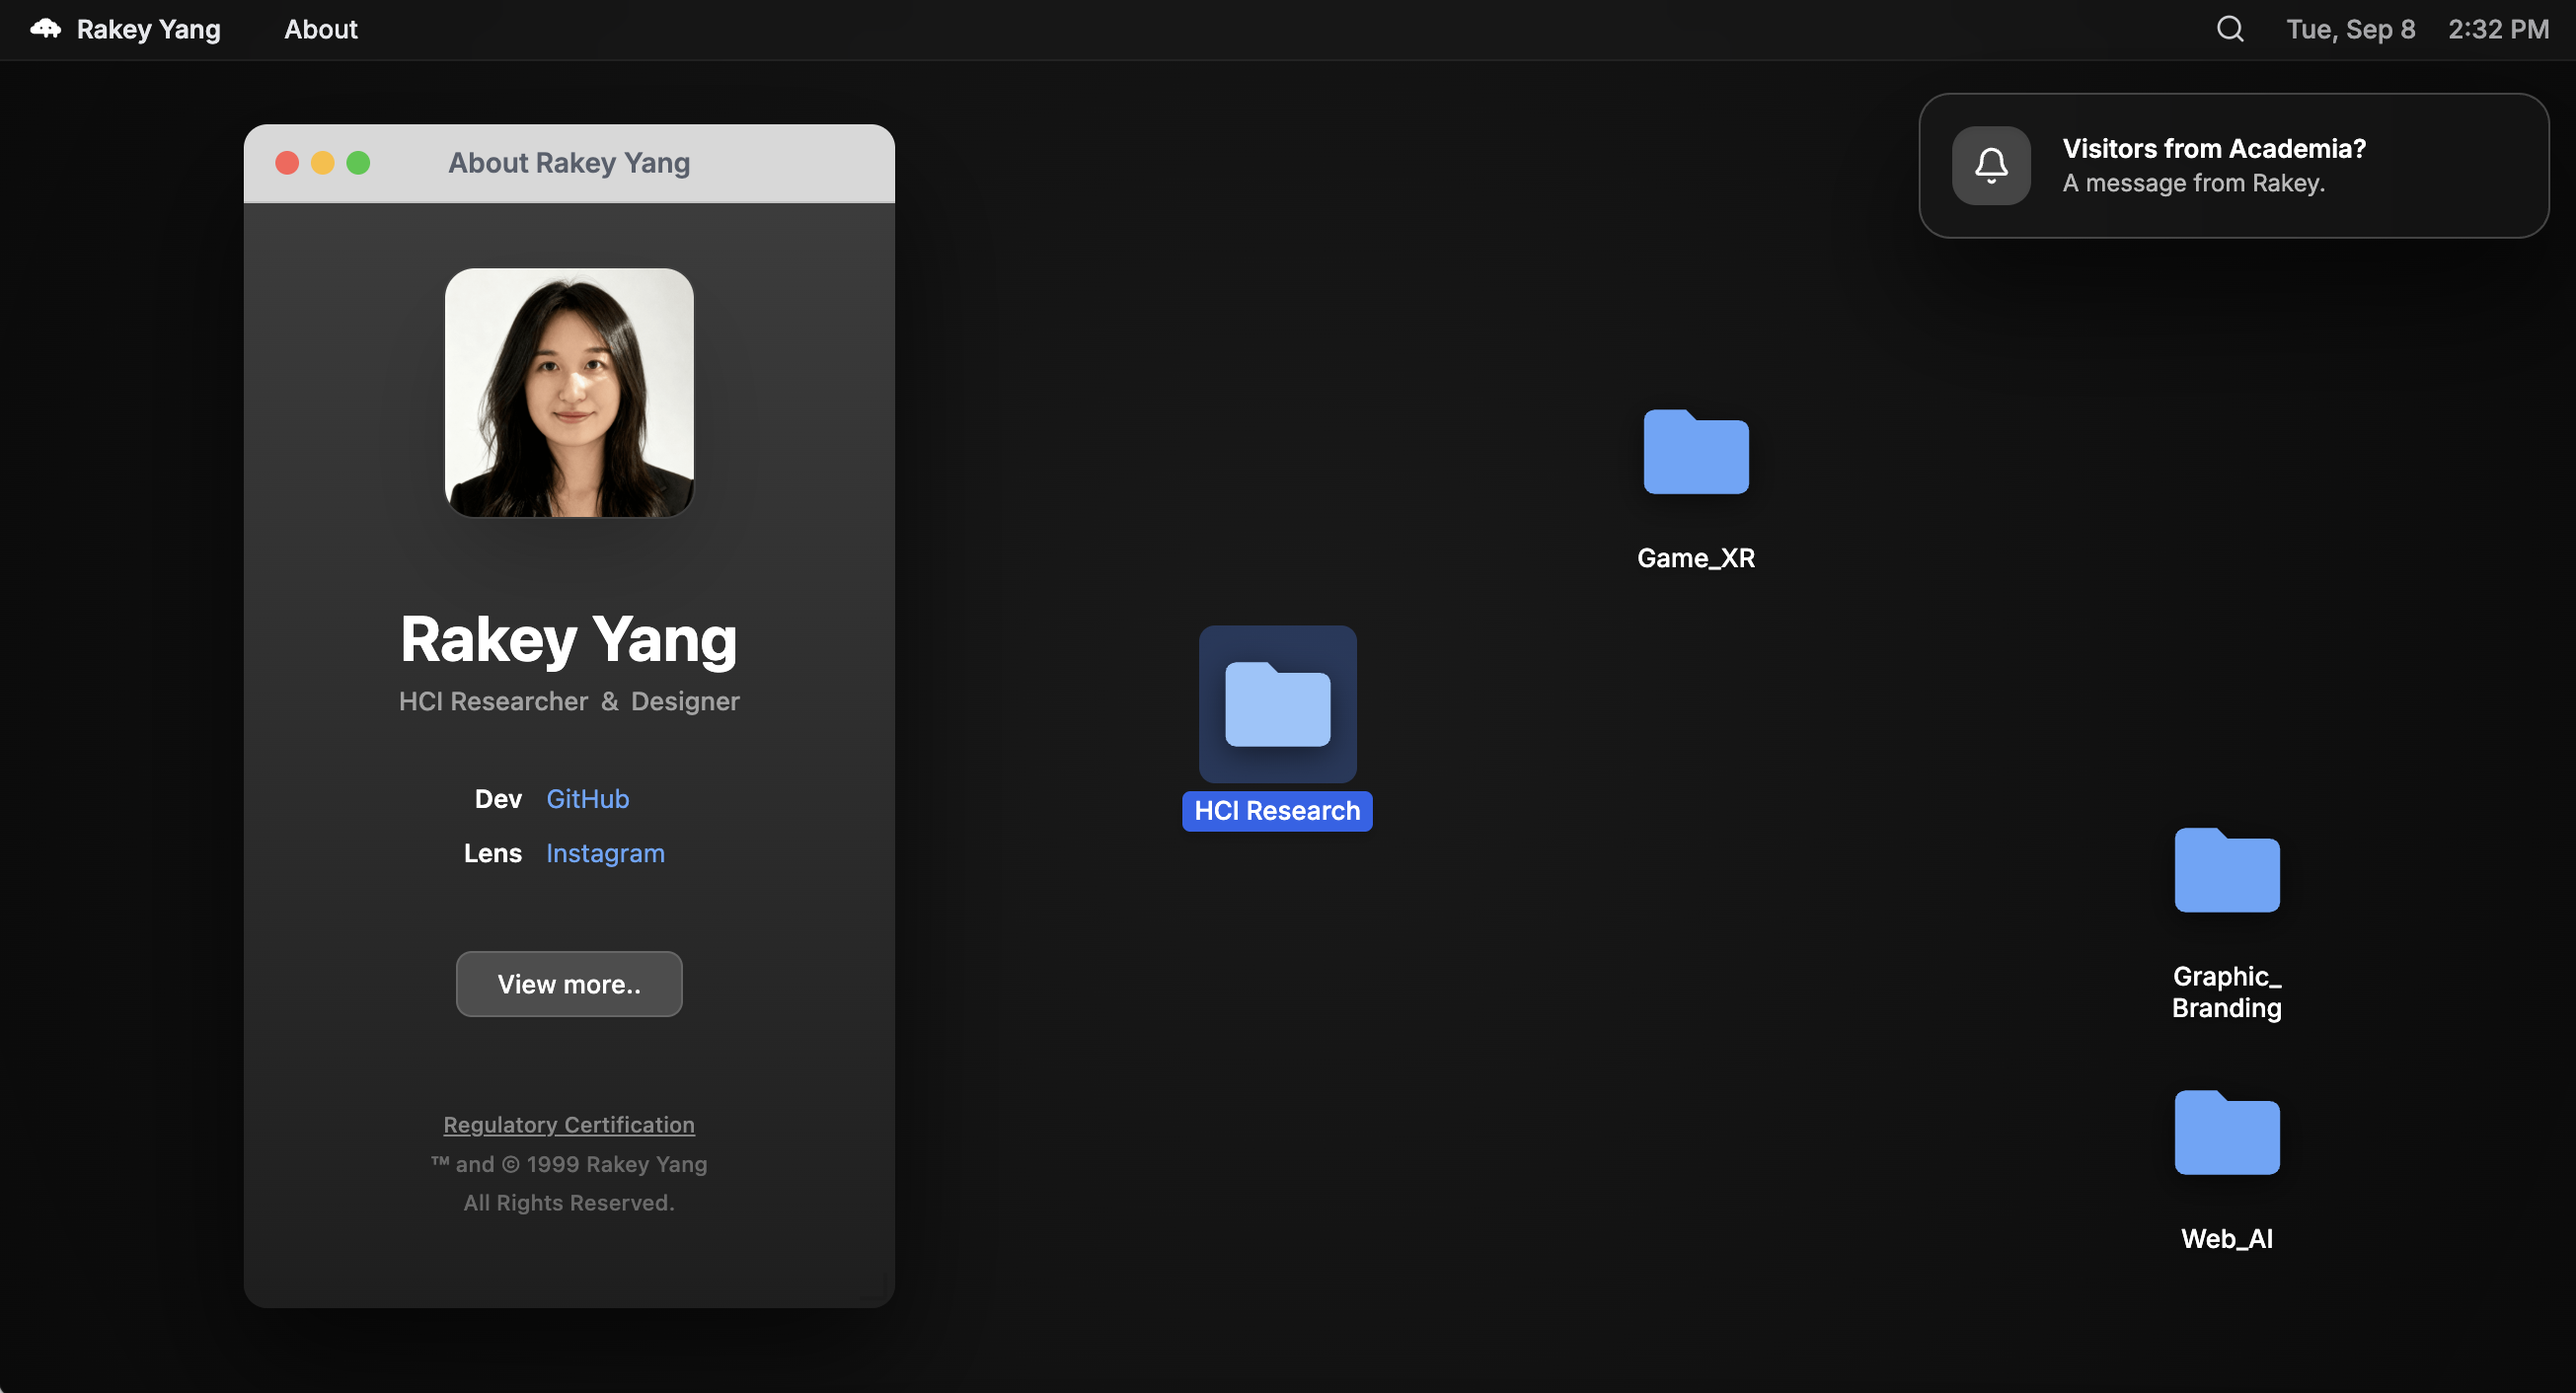
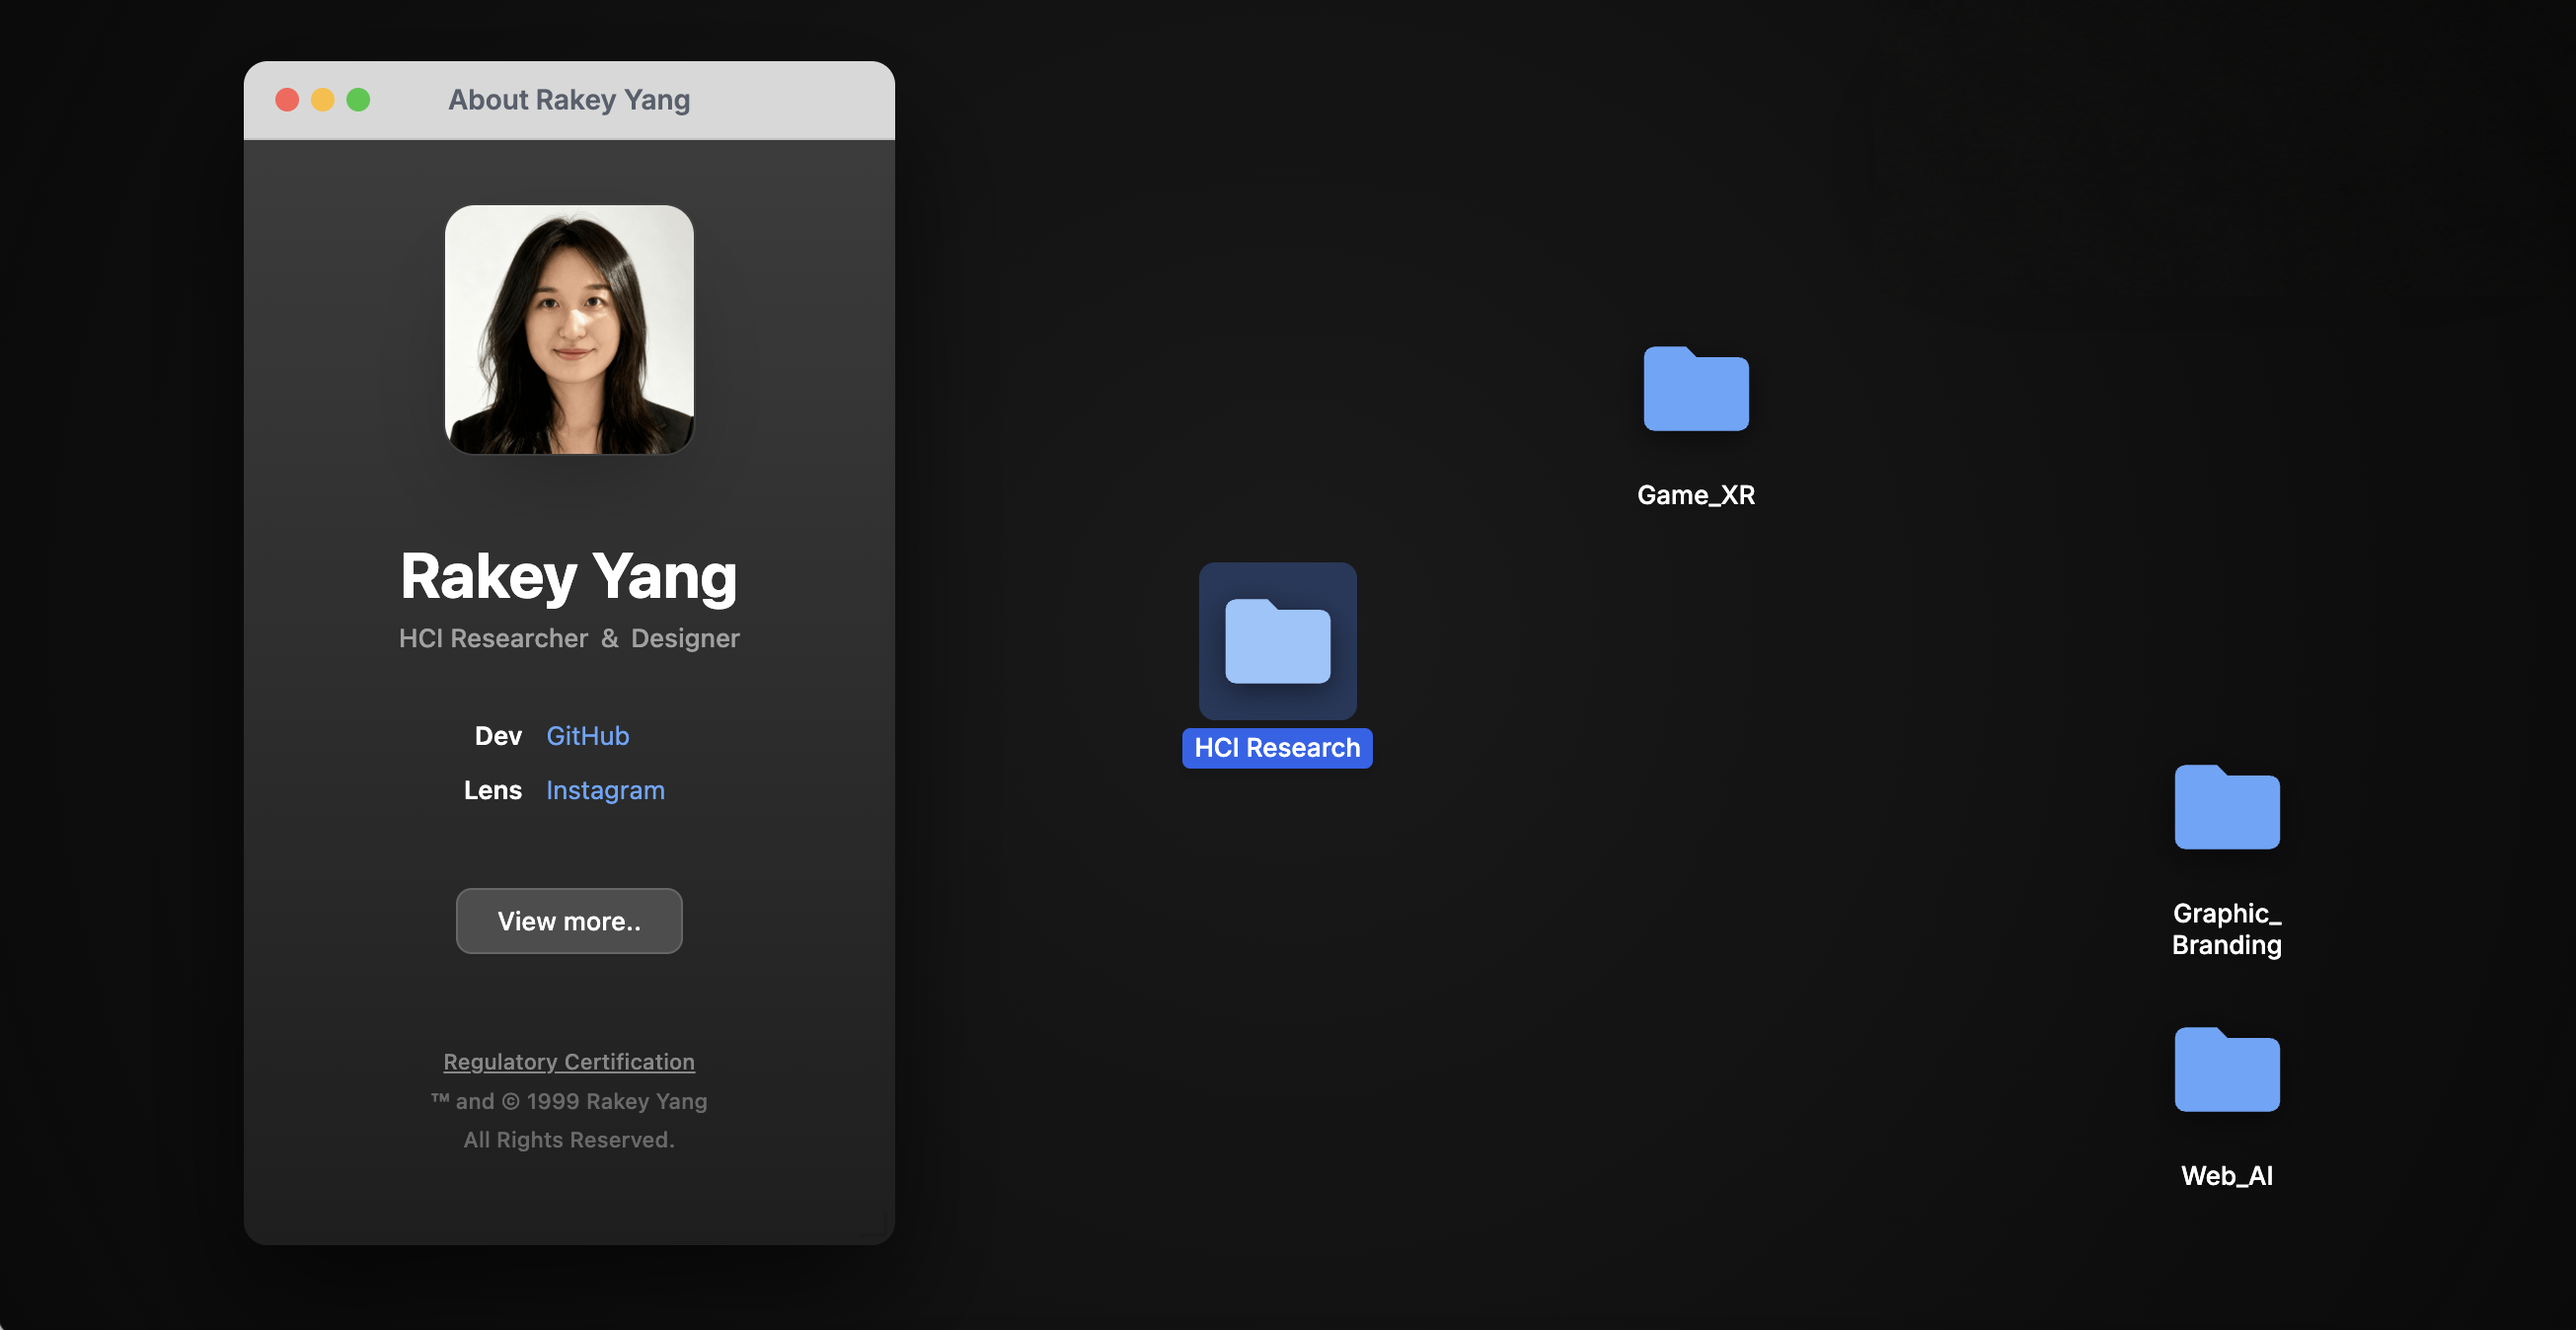
Update social preview

diff --git a/index.html b/index.html
@@ -11,7 +11,7 @@
     <meta property="og:url" content="https://rakeyyang.com" />
     <meta property="og:image" content="https://rakeyyang.com/social-preview.png" />
     <meta property="og:image:width" content="2610" />
-    <meta property="og:image:height" content="1412" />
+    <meta property="og:image:height" content="1348" />
     <meta property="og:image:alt" content="Rakey Yang's personal site styled as a desktop interface, with the About window open." />
     <meta name="twitter:card" content="summary_large_image" />
     <meta name="twitter:title" content="Rakey Yang | Personal Site" />
